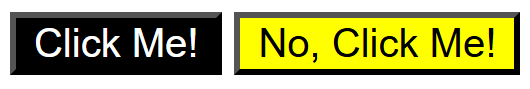
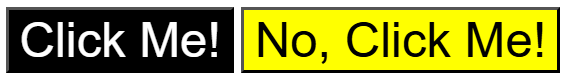
Use actual grouping selector instead of chaining
used chaining on the first try, changed to grouping selector

diff --git a/05-intro-to-css/03-grouping-selectors/style.css b/05-intro-to-css/03-grouping-selectors/style.css
@@ -1,4 +1,5 @@
-.button1.button2{
+.button1,
+.button2{
     font-size: 28px;
     font-family: Helvetica,"Times New Roman",sans-serif;
 }
